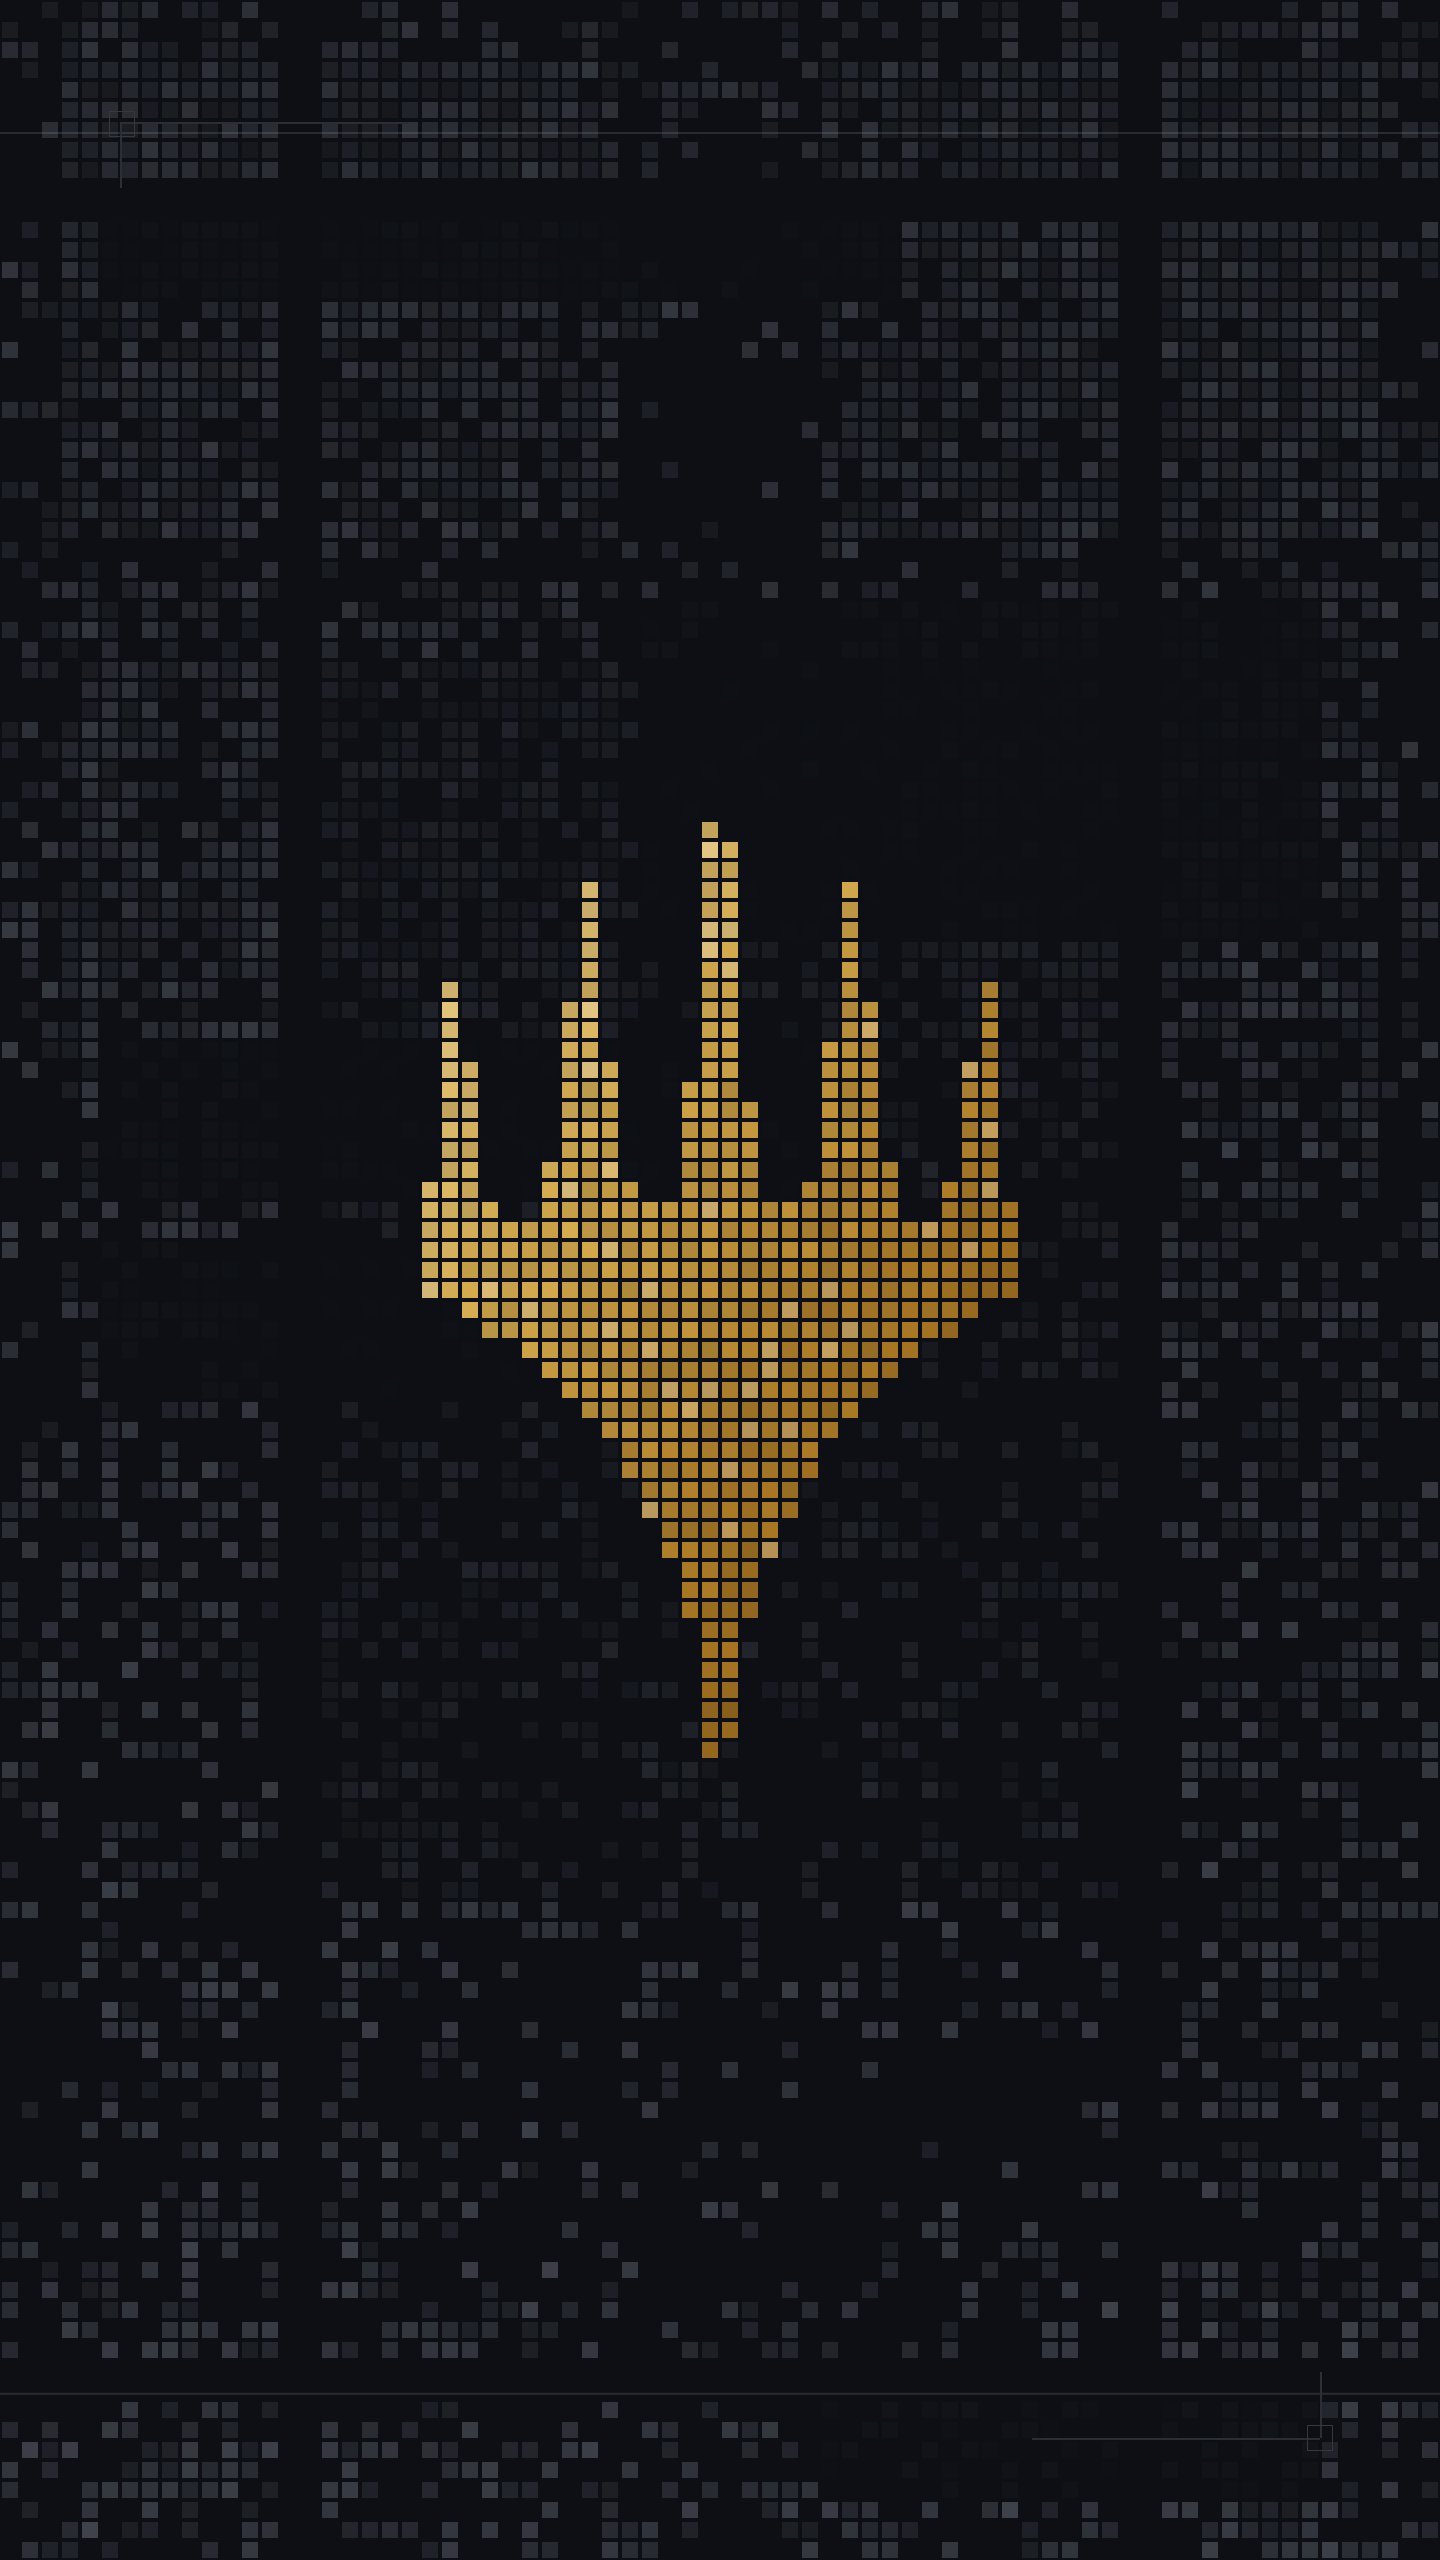
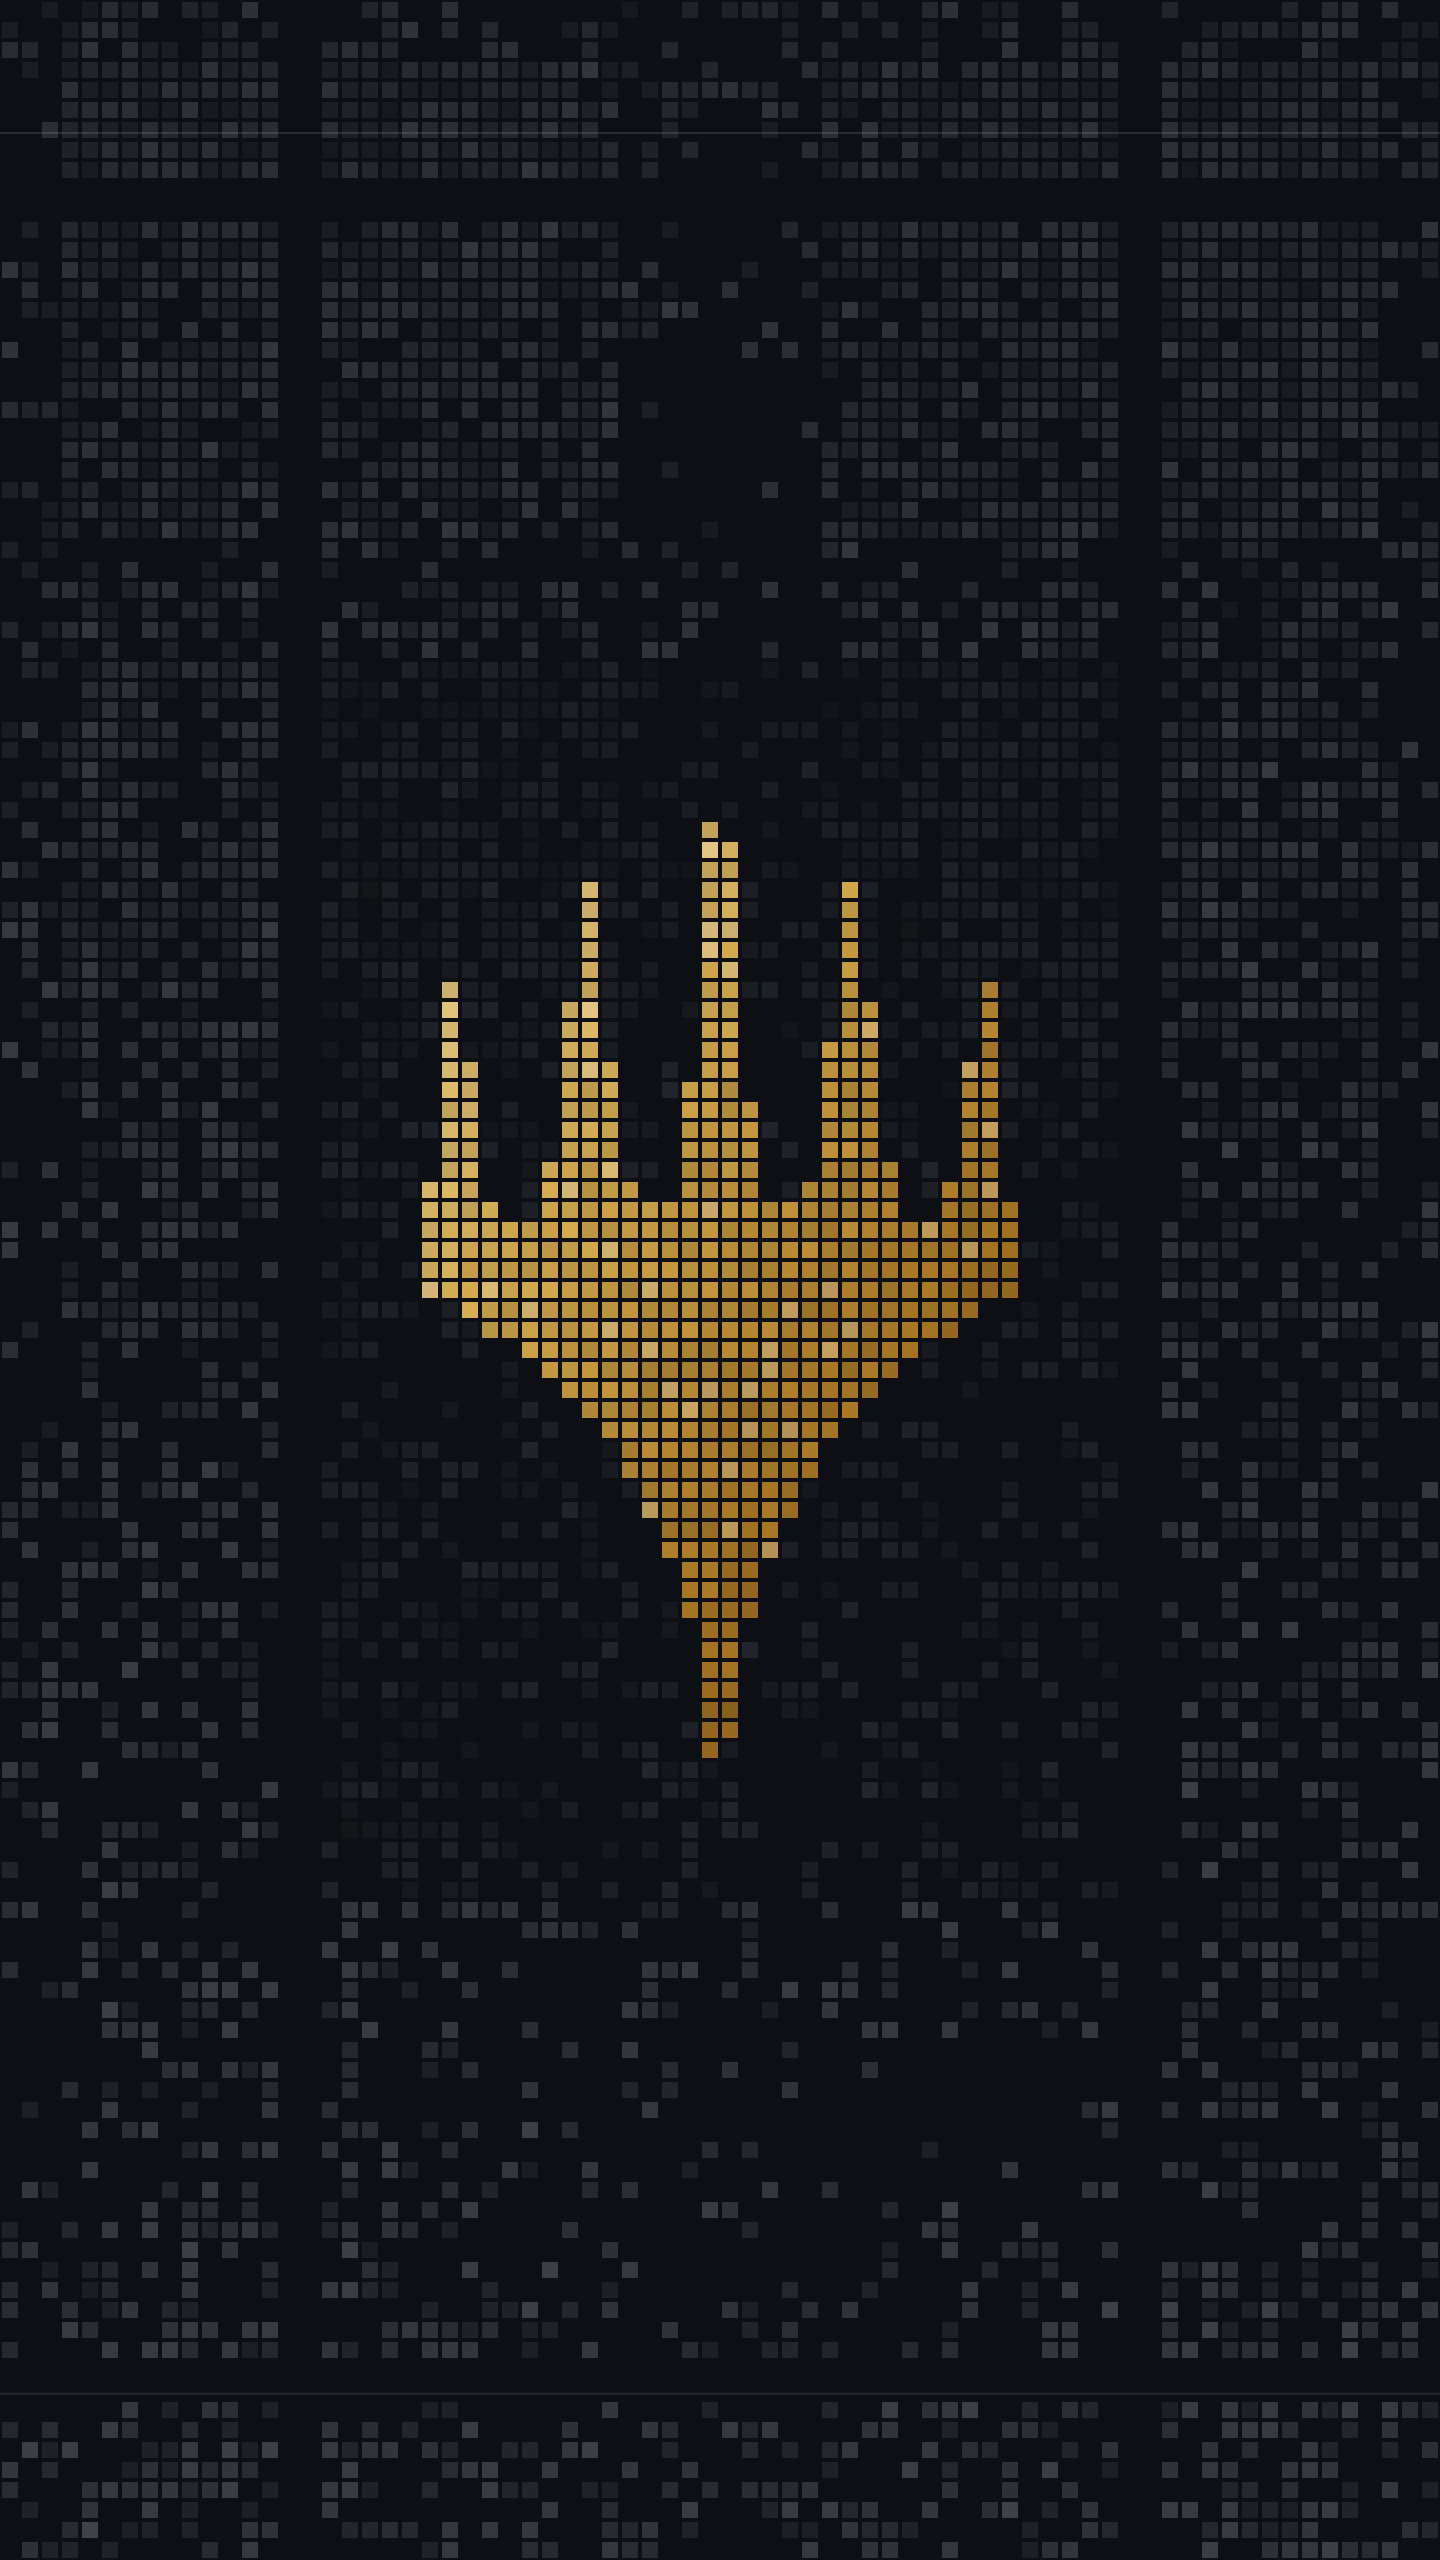
Spieltisch-Bilder: Raster auch dort, wo vorher Text stand
Beim Entfernen der Beschriftung blieben dunkle, fast leere Felder zurück,
weil die Wallpaper das Raster unter dem Text absichtlich abdunkeln. Dazu
kamen kleine Rahmenecken, die den Text eingefasst hatten. Patrick wollte
ein einheitliches Bild ohne solche Lücken. Jetzt laufen die Chip-Kacheln
überall gleichmäßig durch, und die Rahmenecken sind weg. Beide Bilder sind
quer und hochkant neu gerendert; PROVENANCE.md beschreibt die Änderung.

diff --git a/assets/table-backgrounds/PROVENANCE.md b/assets/table-backgrounds/PROVENANCE.md
@@ -30,10 +30,13 @@ Fan Content Policy, wie die Kartenbilder (siehe `TRANSPARENCY.md`).
 Gerendert am 2026-10-12 in Chromium (Playwright) mit zwei Änderungen
 gegenüber den Wallpapern:
 
-1. **Ohne Text.** Alle Beschriftungen der Seiten (Elemente `.lb`, z. B.
-   „MAGIC – THE GATHERING“, Konstruktionsangaben) sind ausgeblendet
-   (`.lb { display: none }`). Raster, Linien und Symbol bleiben, wie die
-   Seite sie zeichnet.
+1. **Ohne Text, Raster durchgehend.** Alle Beschriftungen der Seiten
+   (Elemente `.lb`, z. B. „MAGIC – THE GATHERING“, Konstruktionsangaben) und
+   die kleinen Rahmenecken um sie (`.tick`, `.mark`) sind ausgeblendet
+   (`.lb, .tick, .mark { display: none }`). Die Seiten dunkeln das Raster
+   unter den Beschriftungen ab (`if(inZ)a*=0.12;`); diese Zeile ist entfernt,
+   damit dort keine leeren Felder bleiben (Wunsch des Projektbesitzers,
+   2026-10-12). Leiterbahnen und Symbol bleiben, wie die Seite sie zeichnet.
 2. **Auch hochkant.** Die Seiten nehmen `?w=` und `?h=`. Für das
    Hochformat (Handy) ist der Maßstab der Seite von `S = H / 1440` auf
    `S = Math.min(H / 1440, W / 1300)` begrenzt, damit das Symbol in die Breite
@@ -48,7 +51,8 @@ Danach verlustfrei als WebP gespeichert (Pillow, `lossless=True, method=6`).
 | `src/game/table/backgrounds/planeswalker-quer.webp` | 2560 × 1440 | Planeswalker, breiter als hoch |
 | `src/game/table/backgrounds/planeswalker-hoch.webp` | 1440 × 2560 | Planeswalker, höher als breit |
 
-Neu rendern: die HTML-Seite mit `?w=2560&h=1440` bzw. `?w=1440&h=2560` in
-Chromium öffnen (für hochkant vorher die Zeile `const S=H/1440,` wie oben
-ändern), das Stylesheet `.lb{display:none !important}` einfügen, ein
+Neu rendern: in der HTML-Seite die Zeile `const S=H/1440,` wie oben ändern
+und `if(inZ)a*=0.12;` entfernen, sie mit `?w=2560&h=1440` bzw.
+`?w=1440&h=2560` in Chromium öffnen, das Stylesheet
+`.lb,.tick,.mark{display:none !important}` einfügen, ein
 Bildschirmfoto der Seite machen und verlustfrei als WebP speichern.
